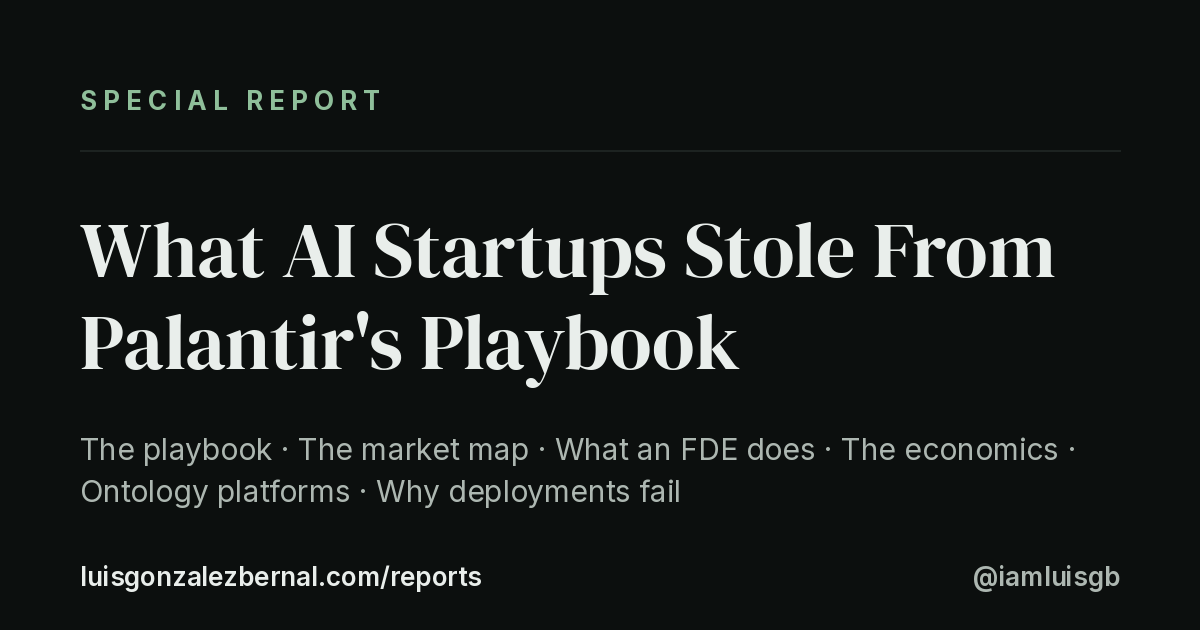
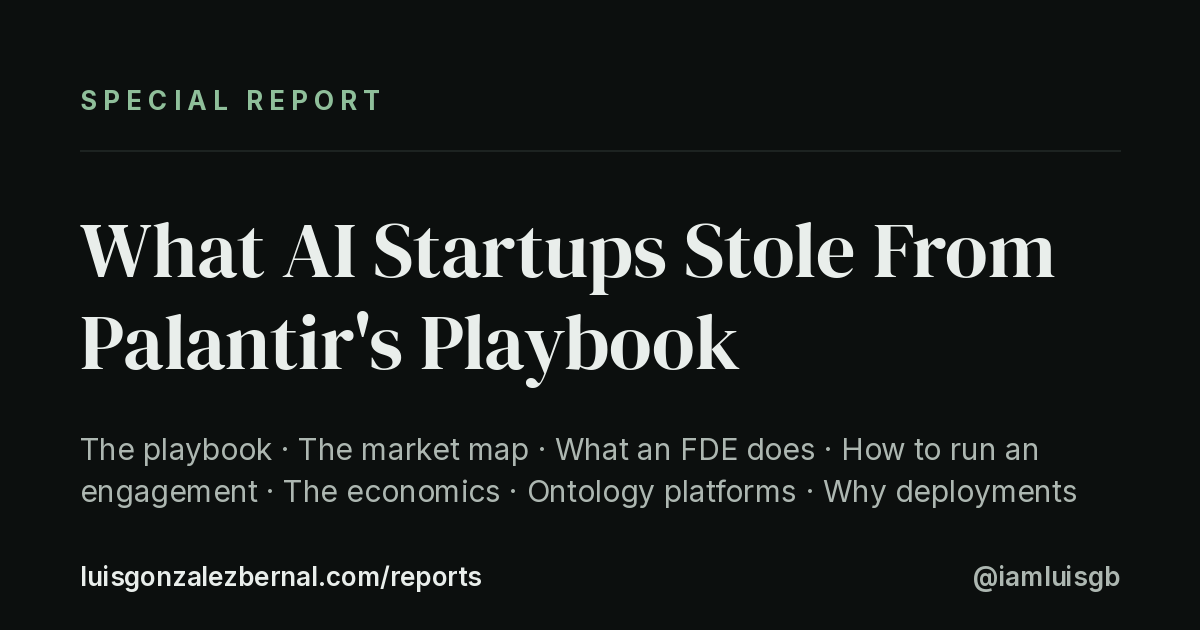
🤖 Rebuild manifest, RSS, OG images and social meta

Changed region(s): [[0.0617, 0.6937, 0.8942, 0.8143]]

diff --git a/index.html b/index.html
@@ -214,11 +214,11 @@
         <p>OpenShell, NemoClaw, Hermes Agent, and the new runtime security layer for autonomous agents</p>
         <div class="meta"><span>2 Jun 2026</span><span>13 min <span class="arrow">→</span></span></div>
       </a>
-      <a class="sp" href="reports/palantir-playbook-2026.html" data-file="palantir-playbook-2026.html" data-vt="r-palantir-playbook-2026" data-tags="business funding" data-min="21" data-extra hidden>
+      <a class="sp" href="reports/palantir-playbook-2026.html" data-file="palantir-playbook-2026.html" data-vt="r-palantir-playbook-2026" data-tags="business funding" data-min="28" data-extra hidden>
         <div class="eyebrow"><b>Enterprise &amp; Adoption</b></div>
         <h4>What AI Startups Stole From Palantir&#x27;s Playbook</h4>
-        <p>The playbook · The market map · What an FDE does · The economics · Ontology platforms · Why deployments fail</p>
-        <div class="meta"><span>29 May 2026</span><span>21 min <span class="arrow">→</span></span></div>
+        <p>The playbook · The market map · What an FDE does · How to run an engagement · The economics · Ontology platforms · Why deployments fail</p>
+        <div class="meta"><span>29 May 2026</span><span>28 min <span class="arrow">→</span></span></div>
       </a>
       <a class="sp" href="reports/ai-engineering-adoption-frameworks-2026-en.html" data-file="ai-engineering-adoption-frameworks-2026-en.html" data-vt="r-ai-engineering-adoption-frameworks-2026-en" data-tags="research coding business" data-min="10" data-extra hidden>
         <div class="eyebrow"><b>Enterprise &amp; Adoption</b></div>

diff --git a/sitemap.md b/sitemap.md
@@ -24,7 +24,7 @@ Every report has an HTML page and a markdown twin at the same path (`.html` / `.
 
 ### Enterprise & Adoption
 
-- [What AI Startups Stole From Palantir's Playbook](https://luisgonzalezbernal.com/reports/reports/palantir-playbook-2026.md) — 2026-05-29 · 21 min
+- [What AI Startups Stole From Palantir's Playbook](https://luisgonzalezbernal.com/reports/reports/palantir-playbook-2026.md) — 2026-05-29 · 28 min
 - [AI Adoption in Engineering Teams: What the Evidence Says](https://luisgonzalezbernal.com/reports/reports/ai-engineering-adoption-frameworks-2026-en.md) — 2026-05-20 · 10 min
 
 ### Memory & Knowledge

diff --git a/reports/palantir-playbook-2026.md b/reports/palantir-playbook-2026.md
@@ -3,9 +3,9 @@ title: "What AI Startups Stole From Palantir's Playbook"
 date: 2026-05-29
 type: special
 url: https://luisgonzalezbernal.com/reports/reports/palantir-playbook-2026.html
-summary: "The playbook · The market map · What an FDE does · The economics · Ontology platforms · Why deployments fail"
+summary: "The playbook · The market map · What an FDE does · How to run an engagement · The economics · Ontology platforms · Why deployments fail"
 tags: [business, funding]
-reading_time_minutes: 21
+reading_time_minutes: 28
 ---
 Market Analysis · Special Report
 
